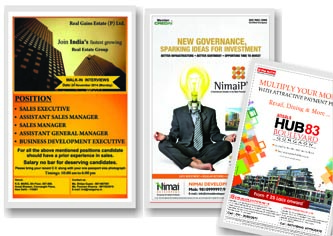
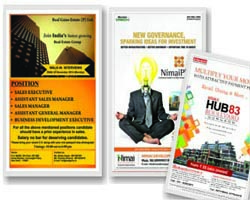
homepage modification

diff --git a/app/views/home.scala.html b/app/views/home.scala.html
@@ -1,14 +1,14 @@
 
 		<div style="margin-left: 7%;">
-		<h2>Book Advertisements for Indian Newspapers Instantly!</h2>
+		<h1>Book Advertisements for Indian Newspapers Instantly!</h1>
 		</div>
 		 <div   class="homCar pull-left" style="width: 20%; margin-left:6%;">
-         
+         <div style="height:40px;background-color: #D7EDFB;"> </div>
          <a href="#/make-booking.html/0"  >
-           <div style="border: 4px solid #D7EDFB" >
+           <div style="border: 4px solid #D7EDFB;height:180px;margin-top:2%;" >
             <carousel interval="carousel.interval" >
 		      <slide ng-repeat="slide in slides" active="slide.active">
-		        <img class="carousel-img" ng-src="{{slide.image}}" style="margin:auto;">
+		        <img class="custom-img" ng-src="{{slide.image}}" style="margin:auto;">
 		        </slide>
 		      </carousel>
 		       </div>
@@ -31,11 +31,12 @@
 		  </div>
 		 
 		  <div   class="homCar pull-left" style="width: 20%;margin-left:8%;">
+		    <div style="height:40px;background-color: #D7EDFB;"> </div>
            <a  href="" ng-click="onClassifiedClicked()"  >
-           <div style="border: 4px solid #D7EDFB">
+           <div style="border: 4px solid #D7EDFB;height:180px;margin-top:2%;">
             <carousel interval="carousel.interval" >
 		      <slide ng-repeat="slide in clasifiedsImages" active="slide.active">
-		        <img class="carousel-img" ng-src="{{slide.image}}" style="margin:auto;">
+		        <img class="custom-img" ng-src="{{slide.image}}" style="margin:auto;">
 		        </slide>
 		      </carousel>
 		           
@@ -56,13 +57,13 @@
 		 </div>
 		  </div>
 		   <div   class="homCar pull-left" style="width: 20%;margin-left:8%;">
-           
            <a href=""  >
-            <div style="border: 4px solid #D7EDFB">
+  			<div style="height:40px;background-color: #D7EDFB;"> </div>
+            <div style="border: 4px solid #D7EDFB;height:180px;margin-top:2%;">
            
             <carousel interval="carousel.interval" >
 		      <slide ng-repeat="slide in dispAds" active="slide.active">
-		        <img class="carousel-img" ng-src="{{slide.image}}" style="margin:auto;">
+		        <img class="custom-img" ng-src="{{slide.image}}" style="margin:auto;">
 		        </slide>
 		      </carousel>	
 		     <!-- <div>
@@ -97,9 +98,8 @@
 		  
 		 <div style="float: left;" class="index_intro">
     
-    <div class="index_intro_heading" style="margin-top:4%;"><span style="font-size:24px;color:#1597EA">Simplifying Newspaper Advertising</span></div><br />
-   <p>ArihantBooking is the easiest way to book Classified &amp; Display Advertisements for Times of India, Hindustan Times, Hindu, Mid-Day, ABP &amp; all other leading newspaper publications! Now book Matrimonial, Property, Recruitment Newspaper Ads at lowest rates.  <strong>ArihantBooking</strong> is India's simplest classified booking service! Through our service you can book classified Ads for all leading Indian Newspapers  at no extra charges!.We are fully accredited by the Indian Newspaper Society (I.N.S.) - the primary governing body for all media publications. We enjoy Full Accreditation recognition from the I.N.S. - an honour only allocated to select few</p></div>
-		 
+    <div class="index_intro_heading" style="margin-top:4%;"><span style="font-size:24px;color:#1597EA">Why Us</span></div><br />
+   <p><strong>ArihantBooking.com</strong> is an user friendly on line portal for booking Classified and Display advertisement for Times of India , The Hindu ,Hindustan Hindi, Hindustan Times , Amar Ujala , Dainik Jagran , ABP , Telegraph, Daily Thanthi, and all leading newspaper of India at guaranteed best prices. Be it Matrimonial , Property , Recruitment , Personal  or Name Change Ads at <strong> ArihantBooking.com</strong> ,you can book you advertisement in any Indian newspaper instantly at great prices . We do not give fake discounts , we only believe in giving the you great service at best possible rates .</p>	 
 		  <!-- <div  class="homCar pull-left" style="width: 20%;margin-left:8%;border: 4px solid #D7EDFB">
         <div class="newspaper"><strong>198+</strong> Newspapers </div>
         <div class="offer"><strong>2,093+</strong> Offers</div>
@@ -200,8 +200,8 @@
 			          </div>   
 			          <div style="" >
 		                <label>Note</label>
-		               
-				           <textarea rows="4" cols="50" style="width: 100%" name="tempuserNote" data-ng-model="tempuserNote" ></textarea>
+				           <textarea rows="4" cols="50" style="width: 100%" name="tempuserNote" data-ng-model="tempuserNote" placeholder=" Example  Newspaper : Times Of India  ; Ad Size: 3*5 ,&nbsp;&nbsp;&nbsp;&nbsp;Ad Category : Matrimonial,&nbsp;&nbsp;&nbsp;&nbsp;Ad Content: Your Ad content,&nbsp;&nbsp;&nbsp;&nbsp;Publish Date :Your Ad publish date." ></textarea>
+			        <label> Please mention Newspaper , Ad Size ,Ad Category,Ad content,Publish date , We will call you back in minutes .</label>
 			          </div>    
 					    
 		   </div>
@@ -238,6 +238,11 @@ right: 0;
 	background-color: white;
 	width: 264px;
 	height: 39px;
+}
+
+.custom-img {
+height: auto !important;
+width: auto !important;
 }
 /* .label{
 margin-bottom: 5px !important;

diff --git a/public/app/newtheme/composeDisplayAd.html b/public/app/newtheme/composeDisplayAd.html
@@ -199,7 +199,7 @@
 		</div> 
 </div>
 <div style="width: 100%; float :left;">
-		<div style="float:right;width: 45%;border: 1px solid black">&nbsp;&nbsp;
+		<div style="float:right;width: 45%;margin-right:22%;border: 1px solid black">&nbsp;&nbsp;
 		    <lable>Specify Ad Width </lable>
 			<input type="radio" name="adWidth" value="firstColumn" ng-model="selectedCartItemOnPopUp.adSizeSelect" ng-click="onFirstColumnSelected()">1  Column
 			<input type="radio" name="adWidth" value="secondColumn" style="margin-left:12%" ng-model="selectedCartItemOnPopUp.adSizeSelect" ng-click="onSecondColumnSelected()">2 Column
@@ -207,7 +207,7 @@
 		<!-- <input type="textarea" name="headerTextArea" style="height:150px" data-ng-model="selectedAdbodyTextOnPopUp.descriptionBody" /> -->
   <div style="width:100%;float: right;">
 		
-		<div style="float: right;height: 250px;width: 35%;">
+		<div style="float: right;height: 250px;width: 35%;margin-right: 30%;">
 		<div id= "adPreview" style="border: 1px solid black;width: 40%;float: right;margin-top: 10%;height: 90px;" ng-style="{borderColor: myColor}">
 			
 			<div id="descriptionHeaderText" style="" ng-style="{'background-color':selectedCartItemOnPopUp.headerColor}" ng-model="selectedCartItemOnPopUp.descriptionHeader">
@@ -390,7 +390,7 @@
 								</center>
 							</div>
 							<div ng-if='selectedCartItemOnPopUp.extraFortick > 0 || selectedCartItemOnPopUp.extraFortickInPer > 0'
-								style="width: 200px; height: 100px; float: left; padding-right: 10px; margin: 5px auto; border-radius: 7px; border: Solid 1px #65BDDF; background-color: #F0F0F0; margin-right: 55%;">
+								style="width: 200px; height: 100px; float: left; padding-right: 10px; margin: 5px auto; border-radius: 7px; border: Solid 1px #65BDDF; background-color: #F0F0F0; margin-right: 0%;margin-left: 2%;">
 								<center>
 									<table width="140" border="0" cellpadding="0" cellspacing="0">
 										<tbody >
@@ -460,7 +460,7 @@
 	  <!--  COST CALCULATING VIEW BOX -->
 	  
    <div class="price-box"  ng-show="rc.composeWizard.currentIndex >= 1"
-			style="border: 4px solid #fc9a24;position: absolute;left: 2%;box-shadow: 0px 0px 0px 0px #65BDDF;margin-top: 0;top: 50%;">
+			style="border: 4px solid #fc9a24;position: absolute;left: 2%;box-shadow: 0px 0px 0px 0px #65BDDF;margin-top: 4%;;top: 50%;">
 			<div style="background-color: #fc9a24;">
 				<p
 					style=" text-align: center; font-size: 9pt; font-family: Calibri; margin: 0 0 0px; color: white; line-height: 0.8;">{{selectedCartItemOnPopUp.newspaper}}-{{

diff --git a/app/views/index.scala.html b/app/views/index.scala.html
@@ -32,9 +32,9 @@
                     <ul class="nav" style="width:98%;">
 					  <li class=""><a href="#">Home	</a></li>
 					 <!--  <li class=""><a href="special_offer.html">Specials Offer</a></li> -->
-					  <li class=""><a href="#/aboutUs" >About Us</a></li>
+					 <!--  <li class=""><a href="#/aboutUs" >About Us</a></li>
 					  <li class=""><a href="#/contactUs" >Contact Us</a></li>
-					  <li class=""  ng-show="name != ''"><a href="#/myAccount">My Ads</a></li> 
+					 -->  <li class=""  ng-show="name != ''"><a href="#/myAccount">My Ads</a></li> 
 					  <li class=""  ng-show="name != ''" style="float: right;"><a href="/logout">Logout</a></li> 
 					  <li ng-show="name == ''"  >
 					  <a   ng-click="Login()" data-toggle="modal" style="cursor: pointer;" >Login </a>
